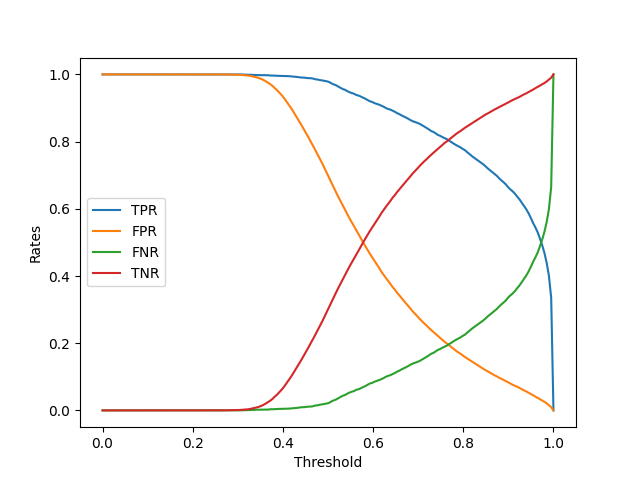
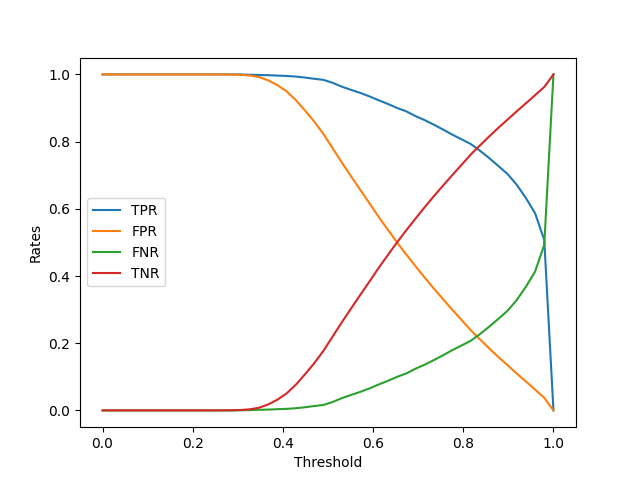
Top-N accuracies and top-N accuracies plot

diff --git a/fashion_mnist.py b/fashion_mnist.py
@@ -109,15 +109,17 @@ print("\nTesting model")
 # Testing
 
 def sign(num):
-    return 1 if num >= 0 else -1
+    try:
+        return 1 if num >= 0 else -1
+    except:
+        return 1 if min(num) >= 0 else -1
 
-def apply_threshold(threshold, predictions):
+def apply_threshold_top_N(threshold, predictions, N):
     threshold_predictions = []
     for i in range(predictions.shape[0]):
-        argmax = np.argmax(predictions[i])
         confidence = np.max(predictions[i])
         if confidence >= threshold:
-            threshold_predictions.append(argmax)
+            threshold_predictions.append(set(np.argsort(predictions[i])[::-1][:N]))
         else:
             threshold_predictions.append(-1)
     return threshold_predictions
@@ -128,6 +130,9 @@ def get_accuracy(dictionary):
     except:
         return 1
 
+
+
+
 predictions = model.predict(test_x)
 
 
@@ -135,11 +140,17 @@ tpr_list = []
 fpr_list = []
 fnr_list = []
 tnr_list = []
-id_accuracies = []
-threshold_to_test = np.linspace(0, 1, 200)
+n = 5
+id_accuracies = [[] for _ in range(n)]
+
+
+
+threshold_to_test = np.linspace(0, 1, 50)
 for threshold in threshold_to_test:
     print("threshold:", threshold)
-    threshold_predictions = apply_threshold(threshold, predictions)
+
+    top_N_predictions = [apply_threshold_top_N(threshold, predictions, i) for i in range(1,n+1)]
+    top_N_id_accuracy = [{'correct': 0, 'total': 0} for _ in range(len(top_N_predictions))]
 
     '''
     Definitions
@@ -152,46 +163,53 @@ for threshold in threshold_to_test:
     fpr = {'correct': 0, 'total': 0}
     fnr = {'correct': 0, 'total': 0}
     tnr = {'correct': 0, 'total': 0}
-    id_accuracy = {'correct': 0, 'total': 0}
-
-    for i in range(len(threshold_predictions)):
-
+    
+    for i in range(len(predictions)):
         # Get the 4 rates
         if sign(test_y[i]) >= 0: # positives
             tpr['total'] += 1
             fnr['total'] += 1
-            if sign(threshold_predictions[i]) >= 0: # true positive
+            if sign(top_N_predictions[0][i]) >= 0: # true positive
                 tpr['correct'] += 1
             else: # false negative
                 fnr['correct'] += 1
         else: # negatives
             fpr['total'] += 1
             tnr['total'] += 1
-            if sign(threshold_predictions[i]) >= 0: # false positive
+            if sign(top_N_predictions[0][i]) >= 0: # false positive
                 fpr['correct'] += 1
             else: # true negative
                 tnr['correct'] += 1
 
-        # Out of known samples that were labeled as known, how many were labeled correctly
-        if sign(threshold_predictions[i]) >= 0 and sign(test_y[i]) >= 0:
-            id_accuracy['total'] += 1
-            if threshold_predictions[i] == test_y[i]:
-                id_accuracy['correct'] += 1
+        # Top-N accuracies
+        for j in range(len(top_N_predictions)):
+            if sign(top_N_predictions[0][i]) >= 0 and sign(test_y[i]) >= 0:
+                top_N_id_accuracy[j]['total'] += 1
+                if test_y[i] in top_N_predictions[j][i]:
+                    top_N_id_accuracy[j]['correct'] += 1
 
     tpr_list.append(get_accuracy(tpr))
     fpr_list.append(get_accuracy(fpr))
     fnr_list.append(get_accuracy(fnr))
     tnr_list.append(get_accuracy(tnr))
-    id_accuracies.append(get_accuracy(id_accuracy))
+    for k in range(len(top_N_id_accuracy)):
+        id_accuracies[k].append(get_accuracy(top_N_id_accuracy[k]))
 
 
 
 plt.clf()
-plt.plot(threshold_to_test,  id_accuracies)
-plt.axis([-0.05, 1.05, -0.05, 1.05])
+plt.plot(threshold_to_test, id_accuracies[0])
 plt.xlabel('Threshold')
 plt.ylabel('Accuracy')
 plt.savefig('./plots/fashion_mnist/id_accuracy.png')
+
+plt.clf()
+for i in range(len(id_accuracies)):
+    plt.plot(threshold_to_test, id_accuracies[i], label='Top-'+str(i+1))
+plt.legend(loc="best")
+plt.xlabel('Threshold')
+plt.ylabel('Accuracy')
+plt.savefig('./plots/fashion_mnist/top_N_id_accuracy.png')
 
 plt.clf()
 plt.plot(threshold_to_test,  tpr_list, label='TPR')
@@ -217,5 +235,9 @@ plt.axis([-0.05, 1.05, -0.05, 1.05])
 plt.xlabel('False Positive Rate')
 plt.ylabel('False Negative Rate')
 plt.savefig('./plots/fashion_mnist/det.png')
+
+
+
+
 
 
